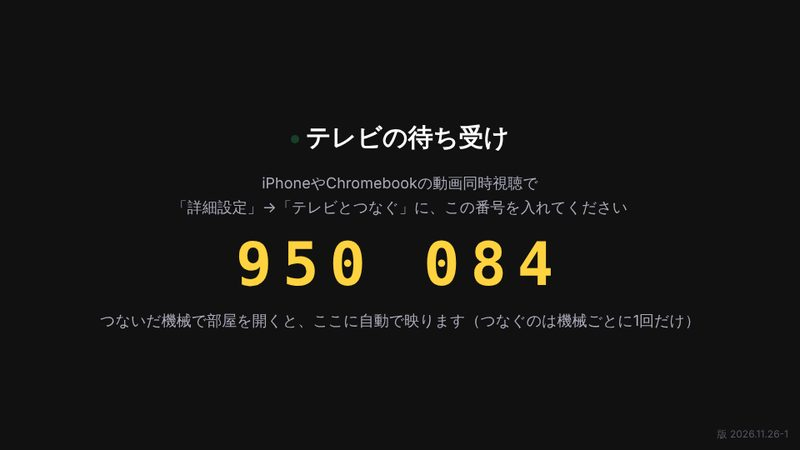
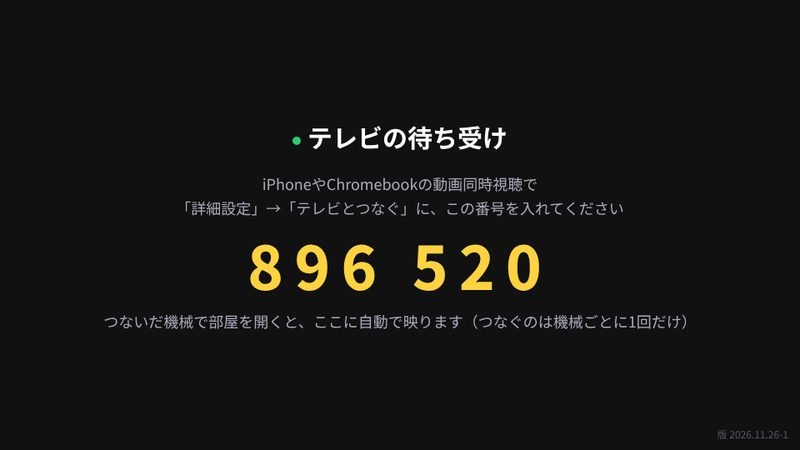
動画同時視聴：説明書の画像を日本語のフォントで撮り直し
Claude-Session: https://claude.ai/code/session_01GtDtUv9vA8Hxvx9HgQYeZD

diff --git a/party/index.html b/party/index.html
@@ -309,7 +309,7 @@ html.tv :focus{outline:4px solid #ff8a00!important;outline-offset:3px;box-shadow
 <script>
 {
 // 版（更新するたびに上げる。画面のいちばん下に小さく出す）
-const VER='2026.11.26-12';
+const VER='2026.11.26-13';
 const SEARCH='https://script.google.com/macros/s/AKfycbxmyUVVj-xb2ICGCtUM4-PhqlsCm4wvcCHjI-IzhZ8OUvDCRyLkJhrC1i1ZMiEnoQoSCQ/exec';
 const DB='https://kikohouse-943cf-default-rtdb.asia-southeast1.firebasedatabase.app';
 const ROOM=(location.hash.slice(1).match(/^[A-Za-z0-9]{24,64}$/)||[''])[0];
@@ -815,7 +815,7 @@ function paint(){if(!$('mem'))return;const n=S.now;paintStat();
 function openHelp(){const ov=el('div','ov'),sh=el('div','sheet hsheet');const hd=el('div','fhd');hd.append(el('b',null,'説明書'),btn('ic','✕',()=>ov.remove()));sh.append(hd);
   const tb=el('div','htabs'),bx=el('div','hbody');sh.append(tb,bx);
   const paint=dev=>{ls('hdev',dev);[...tb.children].forEach(b=>b.classList.toggle('on',b.dataset.d===dev));bx.textContent='';const I=dev==='i';
-    const S2=(t,L)=>{const d=el('details','hsec');d.append(el('summary',null,t));const ul=el('ul');L.forEach(x=>{if(/^IMG:/.test(x)){const im=el('img','himg');im.src='help/'+x.slice(4);im.alt='';im.loading='lazy';ul.append(im);return;}const li=el('li');String(x).split(/(\[PIP\]|\[AP\])/).forEach(p=>{if(p==='[AP]'){const k=el('span','pipic');k.innerHTML='<svg viewBox="0 0 24 24" width="20" height="20" aria-label="AirPlayボタン"><path d="M7 17H5a2.5 2.5 0 0 1-2.5-2.5v-8A2.5 2.5 0 0 1 5 4h14a2.5 2.5 0 0 1 2.5 2.5v8A2.5 2.5 0 0 1 19 17h-2" fill="none" stroke="#fff" stroke-width="1.8" stroke-linecap="round"/><path d="M12 13.5l5 6.5H7z" fill="#fff"/></svg>';li.append(k);return;}if(p==='[PIP]'){const k=el('span','pipic');k.innerHTML='<svg viewBox="0 0 24 24" width="20" height="20" aria-label="小窓ボタン"><rect x="2.5" y="4.5" width="19" height="15" rx="2.5" fill="none" stroke="#fff" stroke-width="1.8"/><rect x="12" y="11.5" width="7.5" height="6" rx="1.2" fill="#fff"/><path d="M6 8l4 4M6 8v3M6 8h3" fill="none" stroke="#fff" stroke-width="1.6" stroke-linecap="round"/></svg>';li.append(k);return;}li.append(p);});ul.append(li);});d.append(ul);bx.append(d);};
+    const S2=(t,L)=>{const d=el('details','hsec');d.append(el('summary',null,t));const ul=el('ul');L.forEach(x=>{if(/^IMG:/.test(x)){const im=el('img','himg');im.src='help/'+x.slice(4)+'?v='+VER;im.alt='';im.loading='lazy';ul.append(im);return;}const li=el('li');String(x).split(/(\[PIP\]|\[AP\])/).forEach(p=>{if(p==='[AP]'){const k=el('span','pipic');k.innerHTML='<svg viewBox="0 0 24 24" width="20" height="20" aria-label="AirPlayボタン"><path d="M7 17H5a2.5 2.5 0 0 1-2.5-2.5v-8A2.5 2.5 0 0 1 5 4h14a2.5 2.5 0 0 1 2.5 2.5v8A2.5 2.5 0 0 1 19 17h-2" fill="none" stroke="#fff" stroke-width="1.8" stroke-linecap="round"/><path d="M12 13.5l5 6.5H7z" fill="#fff"/></svg>';li.append(k);return;}if(p==='[PIP]'){const k=el('span','pipic');k.innerHTML='<svg viewBox="0 0 24 24" width="20" height="20" aria-label="小窓ボタン"><rect x="2.5" y="4.5" width="19" height="15" rx="2.5" fill="none" stroke="#fff" stroke-width="1.8"/><rect x="12" y="11.5" width="7.5" height="6" rx="1.2" fill="#fff"/><path d="M6 8l4 4M6 8v3M6 8h3" fill="none" stroke="#fff" stroke-width="1.6" stroke-linecap="round"/></svg>';li.append(k);return;}li.append(p);});ul.append(li);});d.append(ul);bx.append(d);};
     S2('友だちを呼ぶ',['右上の「URLをコピー」で、この部屋のURLを送る','前と同じ名前で入ると、同じ人として入れる（アイコンもそのまま）','同じ人が別のブラウザ（ChromeとBraveなど）で入って1人にまとまってしまったら、「詳細設定」→「この機械を別の人として入りなおす」で、ちがう名前にして分ける']);
     S2('見てる人',['IMG:members.png','青いふち：自分','緑の点：今このページを開いている人','黄色の点（少し薄い）：アプリを裏にした人（ほかのアプリ・画面ロック・小窓など）。裏で見ているかも。40分たつと灰色','灰色：今いない人（電波が一瞬切れたくらいでは灰色にならない）','その日はじめて入ってきた人は、アイコンがぴょこっと跳ねて「○○が来ました」と出る（1人1日1回）','自分のアイコンを押すと、名前・色・アイコンを変えられる。ほかの人のアイコンを押すと、その人を部屋から出せる']);
     S2('知らせ',['IMG:toast.jpg','だれかが止めた・流した・移動した・動画を変えた・「次に再生」に入れたとき、その日はじめて人が来たときに、小さな黒い帯で出る（3秒で消える）','ふだんは動画の枠のすぐ上（動画にはかぶらない）。全画面のときは動画の上','小窓のときは出さない',I?'動画の右下のYouTubeの全画面ボタンで全画面にしたときは出ない（ページの「全画面」ボタンなら出る）':'自分がした操作は、自分の画面には出ない']);
